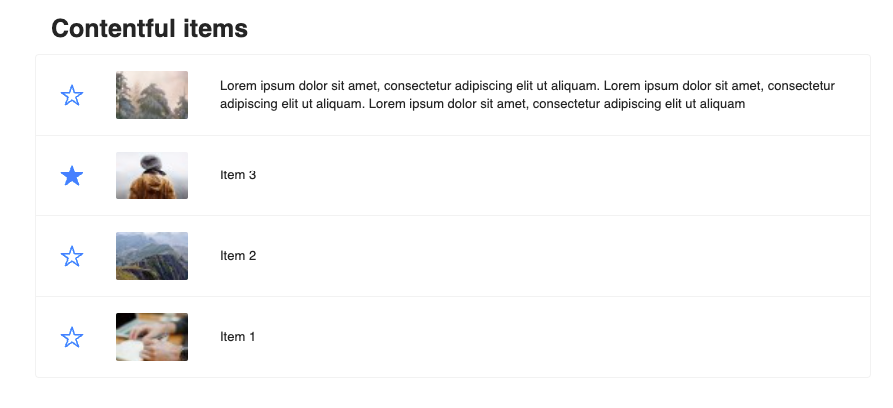
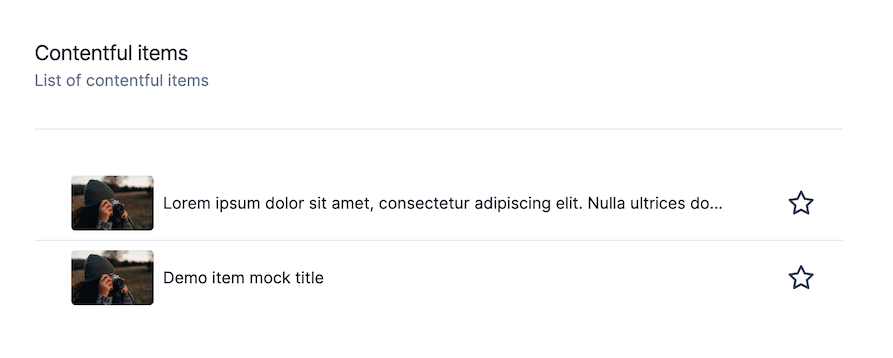
feat:#258 update screens in docs (#266)
* feat:#258 Add auth screenshots

* feat:#258 Add assets screenshosts

* feat:#258 Add crud screenshots

* feat:#258 Add saas ideas screenshot

* feat:#258 Add notification screenshots

* feat:#258 Add payments screenshots

* feat:#258 Add subscriptions screnshots

* feat:#258 Add contentful screenshots

* feat:#258 Fix checkbox label

* feat:#258 clean plans screenshot

diff --git a/packages/webapp-libs/webapp-core/src/components/forms/checkbox/checkbox.component.tsx b/packages/webapp-libs/webapp-core/src/components/forms/checkbox/checkbox.component.tsx
@@ -17,12 +17,12 @@ const Checkbox = forwardRef<
   React.ElementRef<typeof CheckboxPrimitive.Root>,
   React.ComponentPropsWithoutRef<CheckboxProps>
 >(({ label, error, className, ...props }, ref) => (
-  <div className={cn('flex items-center relative', className)}>
+  <div className={cn('relative flex items-center', className)}>
     <label className="inline-flex items-center">
       <CheckboxPrimitive.Root
         ref={ref}
         className={cn(
-          `peer h-4 w-4 shrink-0 rounded-sm border border-primary ring-offset-background focus-visible:outline-none focus-visible:ring-2 focus-visible:ring-ring focus-visible:ring-offset-2 disabled:cursor-not-allowed disabled:opacity-50 data-[state=checked]:bg-primary data-[state=checked]:text-primary-foreground transition-all duration-200 ease-in`,
+          `border-primary ring-offset-background focus-visible:ring-ring data-[state=checked]:bg-primary data-[state=checked]:text-primary-foreground peer h-4 w-4 shrink-0 rounded-sm border transition-all duration-200 ease-in focus-visible:outline-none focus-visible:ring-2 focus-visible:ring-offset-2 disabled:cursor-not-allowed disabled:opacity-50`,
           {
             'border-red-500': !!error,
           }
@@ -34,14 +34,14 @@ const Checkbox = forwardRef<
         </CheckboxPrimitive.Indicator>
       </CheckboxPrimitive.Root>
       <p
-        className={cn('text-sm font-medium leading-none ml-2', {
+        className={cn('ml-2 text-xs font-medium leading-none', {
           'text-red-500': !!error,
         })}
       >
         {label}
       </p>
     </label>
-    <p className="leading-3 text-xs absolute m-0 top-[calc(100%+4px)] text-red-500">{error}</p>
+    <p className="absolute top-[calc(100%+4px)] m-0 text-xs leading-3 text-red-500">{error}</p>
   </div>
 ));
 Checkbox.displayName = CheckboxPrimitive.Root.displayName;

diff --git a/packages/webapp/src/shared/components/auth/signupForm/signupForm.component.tsx b/packages/webapp/src/shared/components/auth/signupForm/signupForm.component.tsx
@@ -144,7 +144,7 @@ export const SignupForm = () => {
                     },
                     {
                       termsLink: (
-                        <Link to={generateLocalePath(RoutesConfig.termsAndConditions)}>
+                        <Link className="h-fit p-0 text-xs" to={generateLocalePath(RoutesConfig.termsAndConditions)}>
                           <FormattedMessage
                             id="Auth / Signup / Accept checkbox / T&C link"
                             defaultMessage="Terms of Use"
@@ -152,7 +152,7 @@ export const SignupForm = () => {
                         </Link>
                       ),
                       policyLink: (
-                        <Link to={generateLocalePath(RoutesConfig.privacyPolicy)}>
+                        <Link className="h-fit p-0 text-xs" to={generateLocalePath(RoutesConfig.privacyPolicy)}>
                           <FormattedMessage
                             id="Auth / Signup / Accept checkbox / Privacy policy link"
                             defaultMessage="Privacy Policy"
